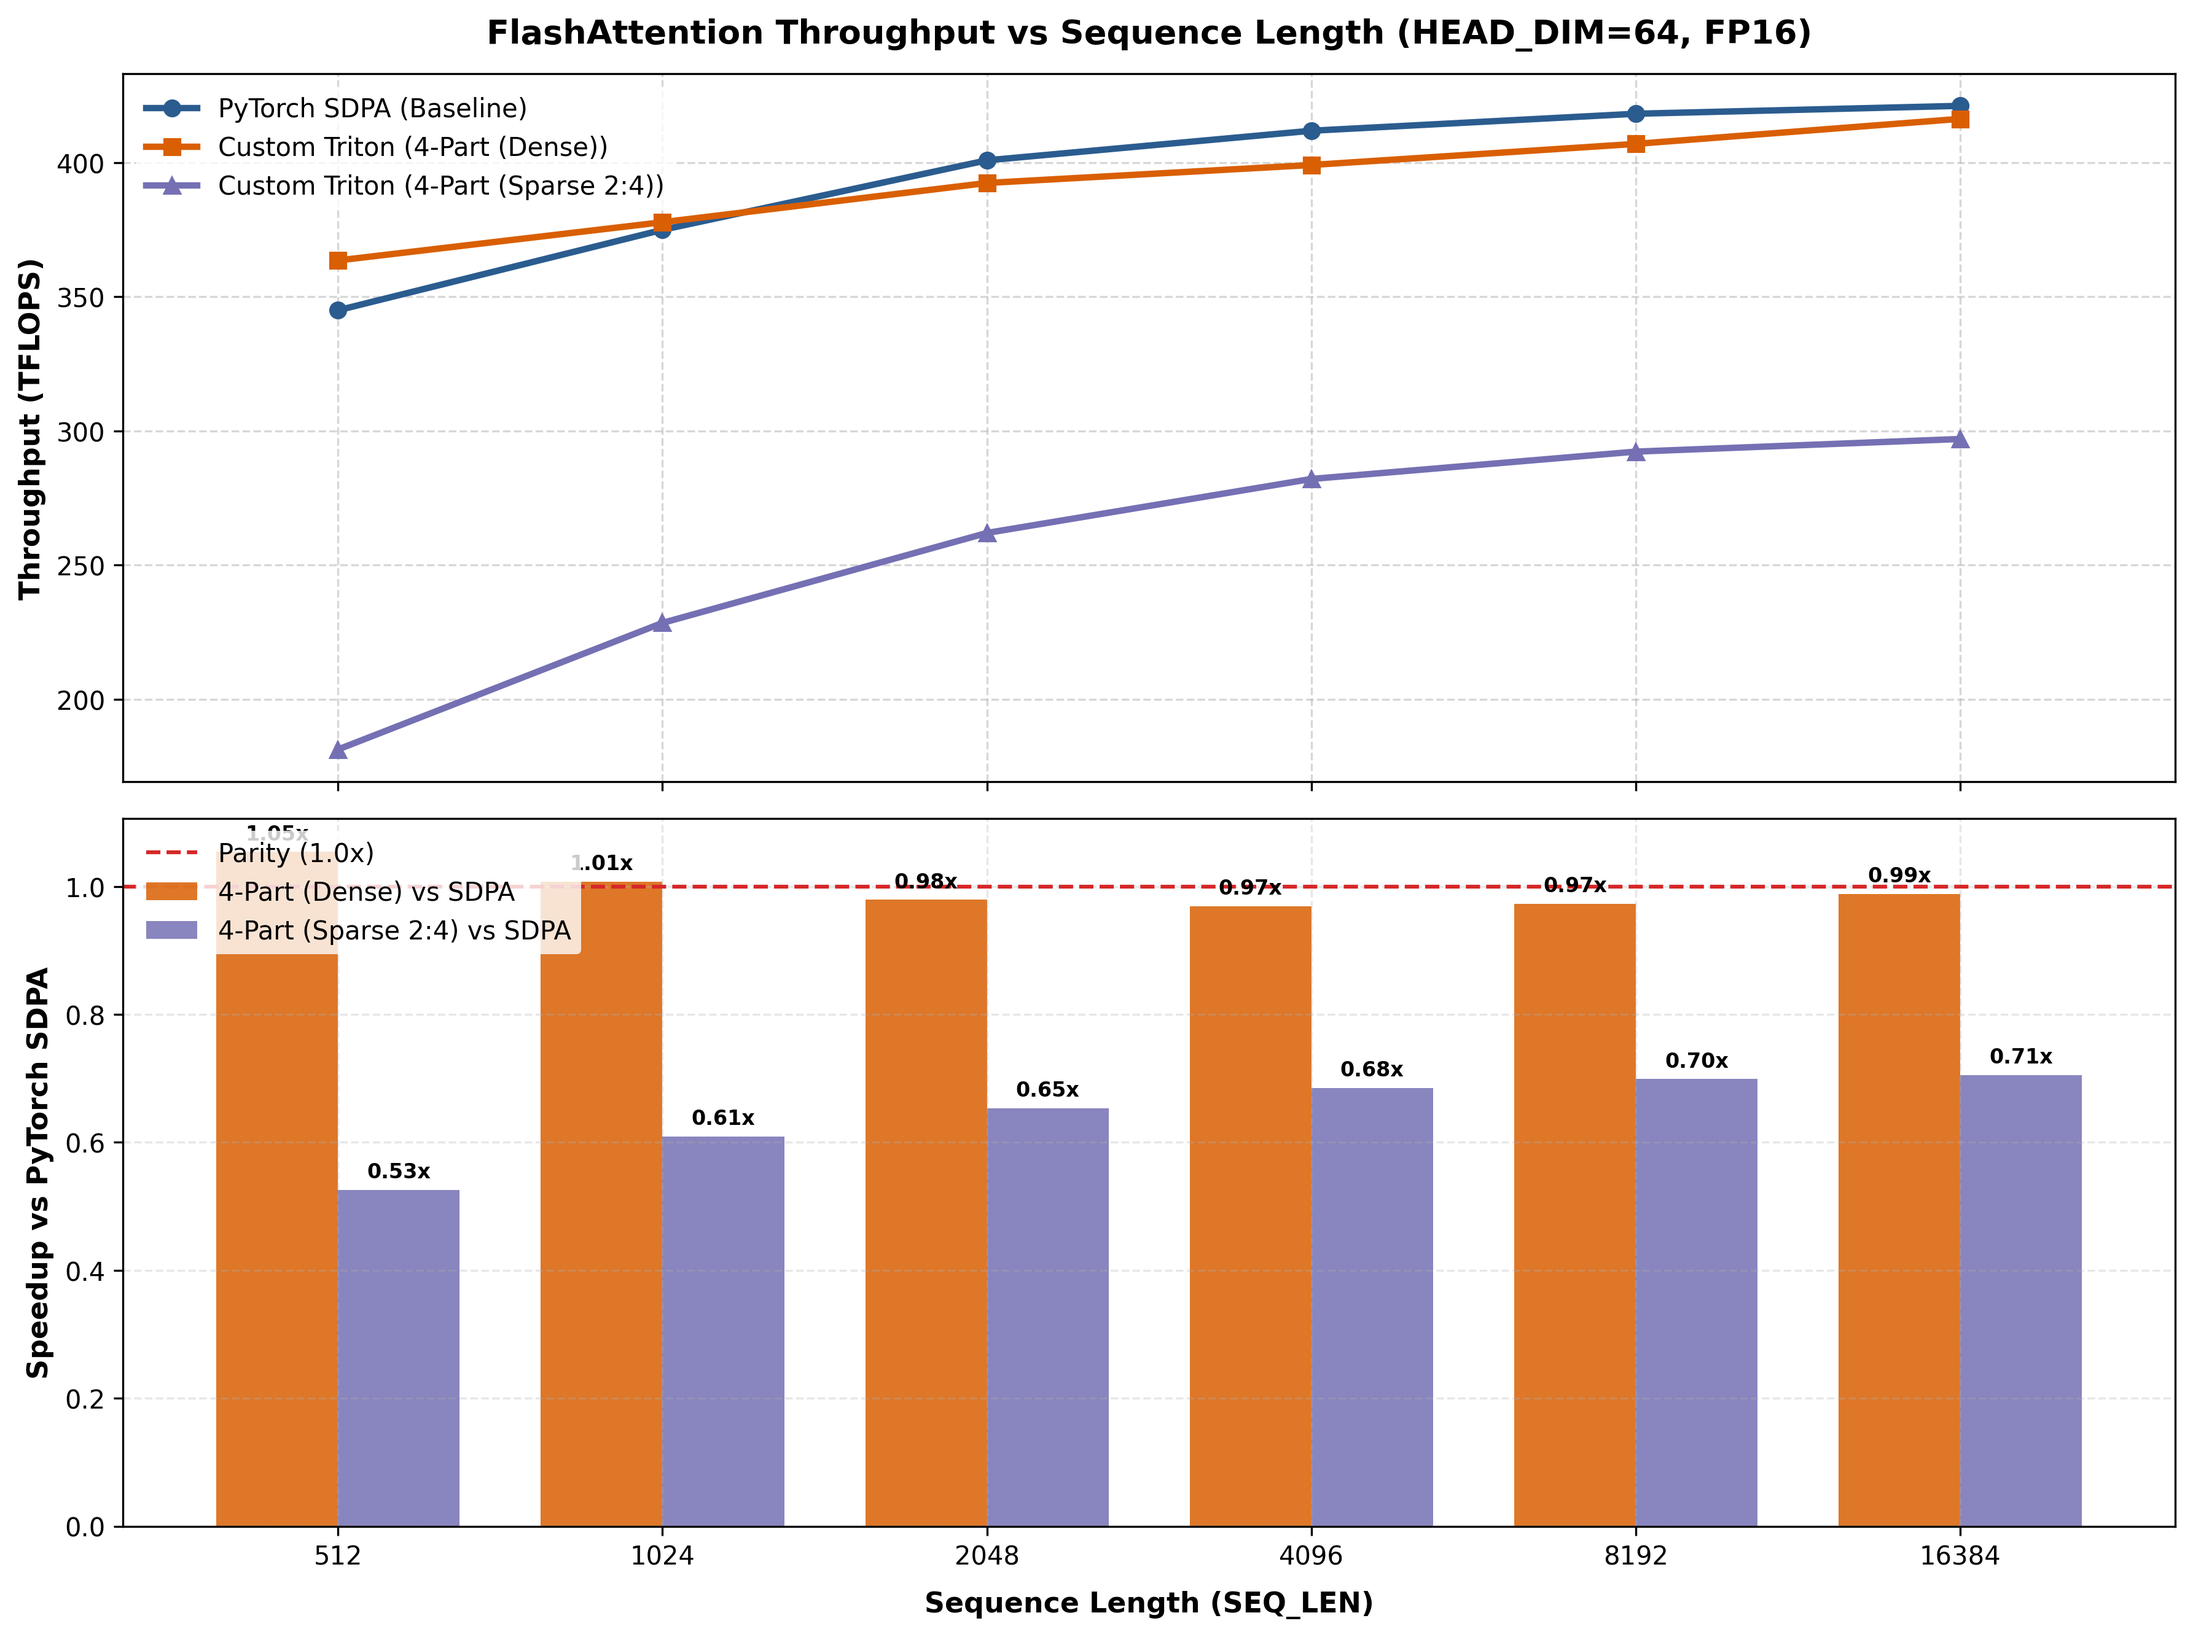
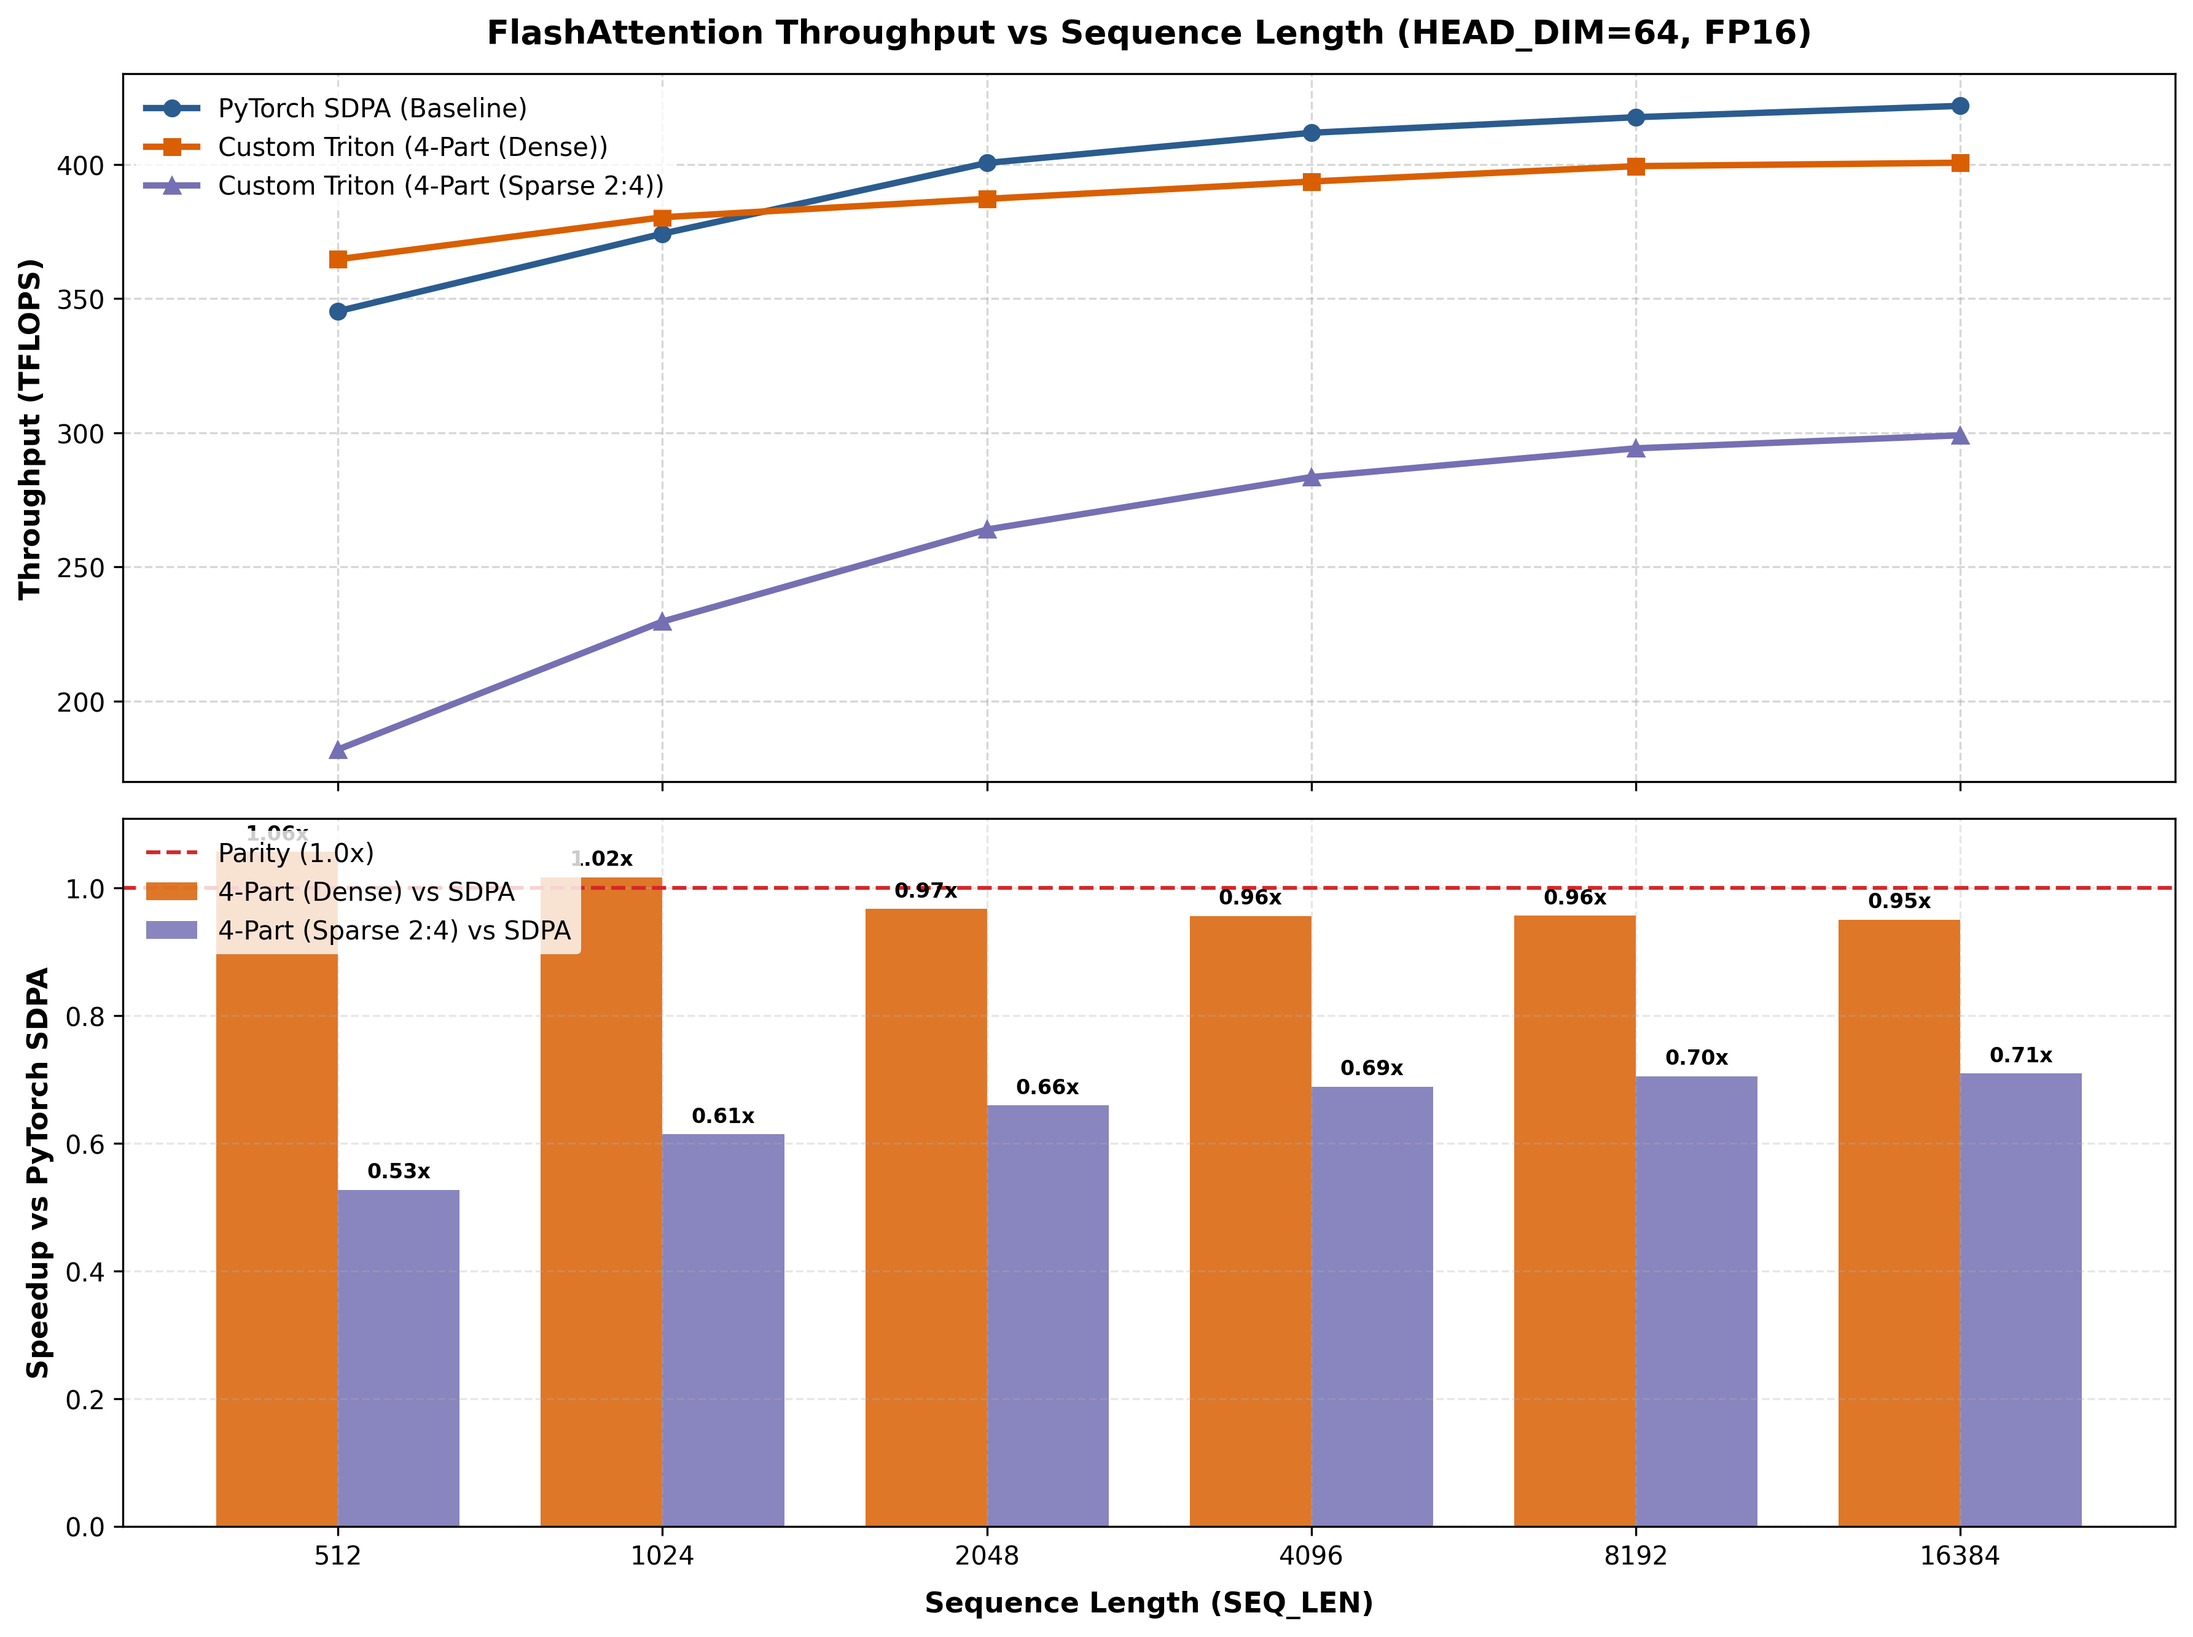
qkv sparse with benchmark

diff --git a/attention/kernels/gluon_attention_qk_sparse.py b/attention/kernels/gluon_attention_qk_sparse.py
@@ -786,7 +786,7 @@ def get_autotuned_kernel(head_dim: int):
             configs=configs,
             key=["SEQ_LEN"],
             do_bench=lambda kernel_call, quantiles: triton.testing.do_bench_cudagraph(
-                kernel_call, quantiles=quantiles
+                kernel_call, quantiles=quantiles, rep=50
             ),
         )(fa3_warp_specialized_kernel)
         

diff --git a/attention/kernels/gluon_attention_qkv_sparse.py b/attention/kernels/gluon_attention_qkv_sparse.py
@@ -789,7 +789,7 @@ def get_autotuned_kernel(head_dim: int):
             configs=configs,
             key=["SEQ_LEN"],
             do_bench=lambda kernel_call, quantiles: triton.testing.do_bench_cudagraph(
-                kernel_call, quantiles=quantiles
+                kernel_call, quantiles=quantiles, rep=50
             ),
         )(fa3_warp_specialized_kernel)
         
